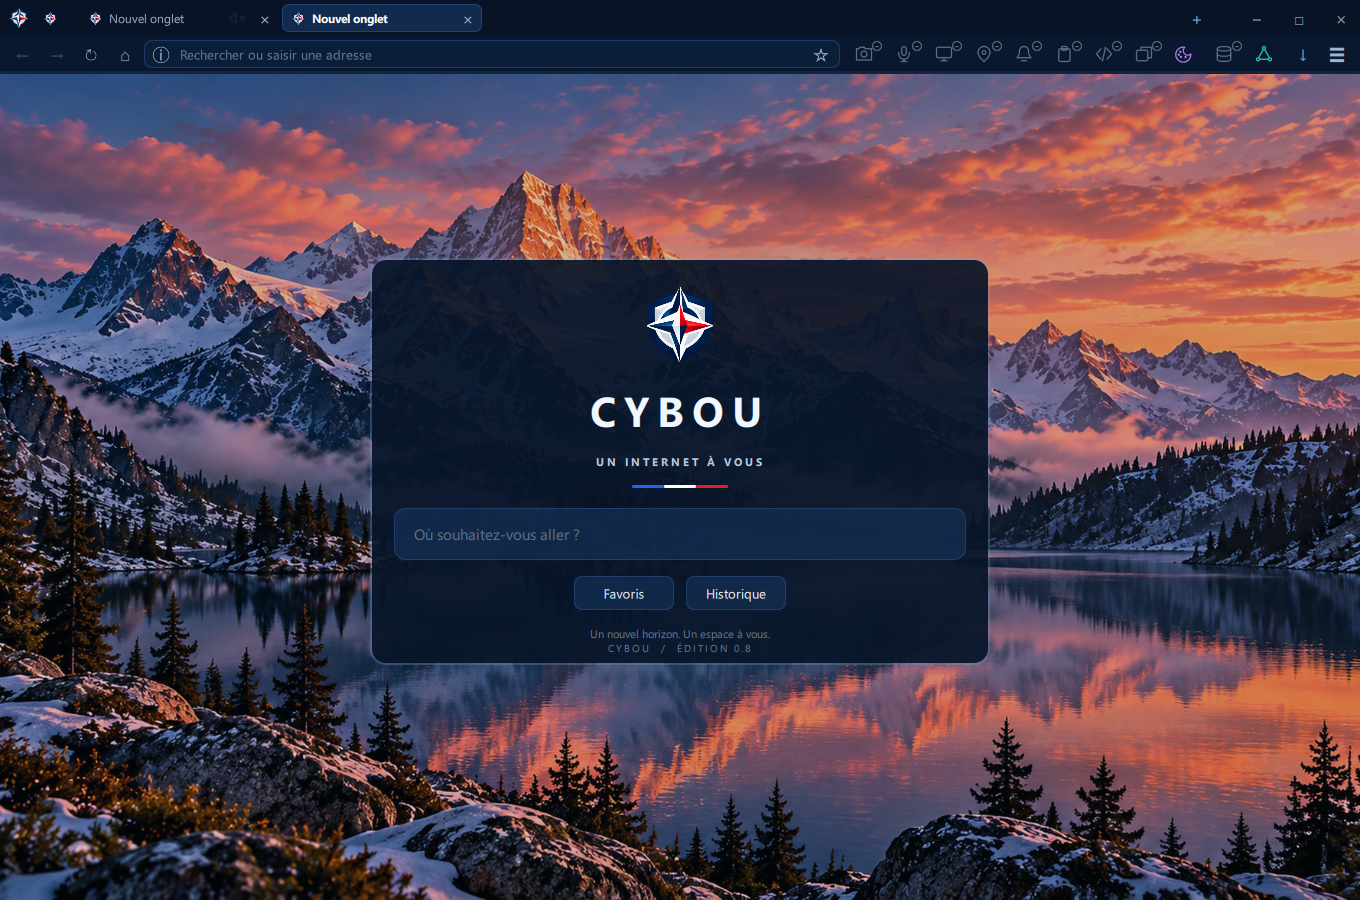
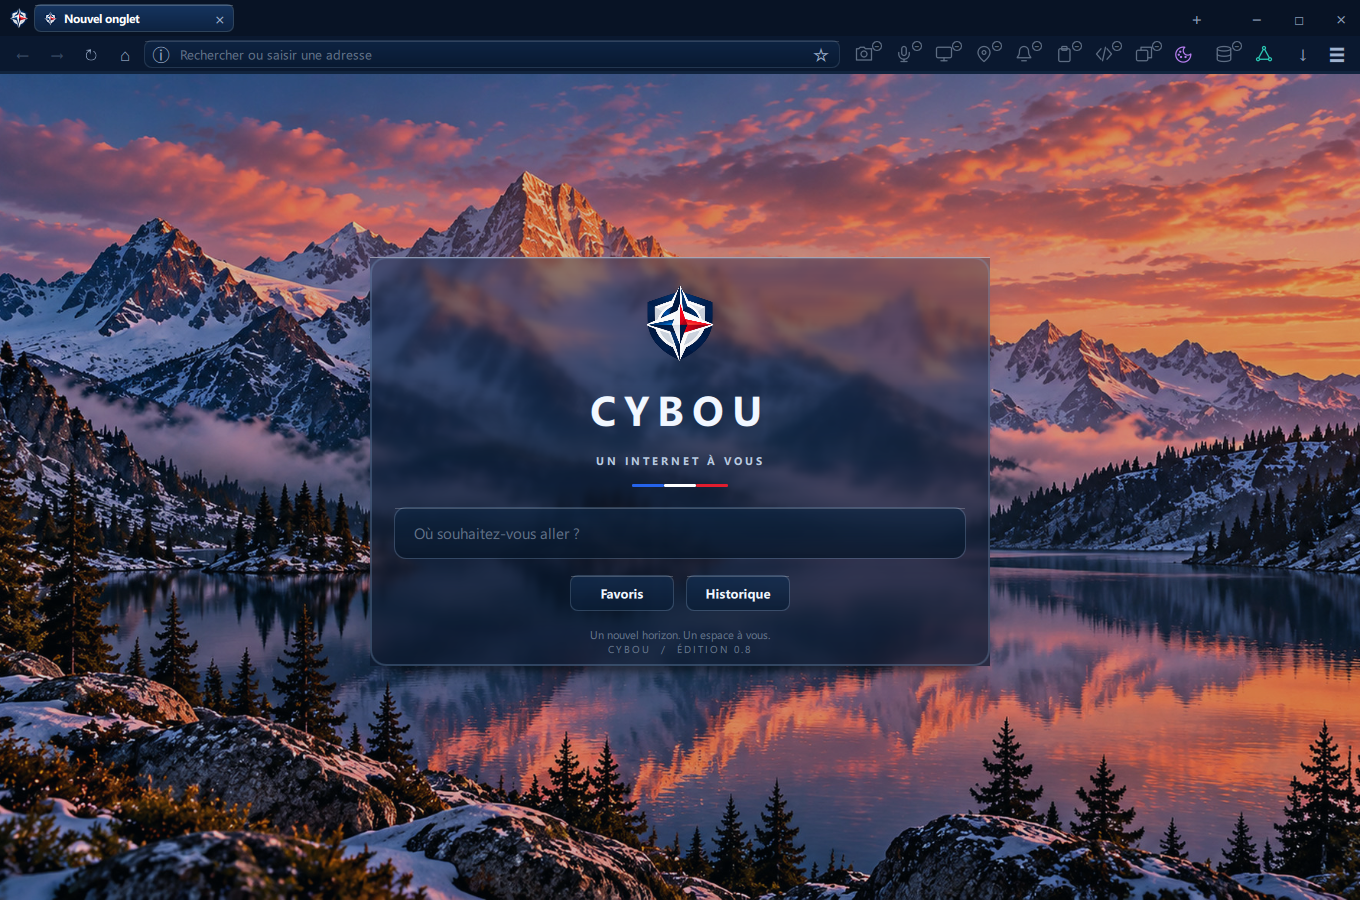
Step 1: Refine frosted glass aesthetics with backdrop blur, specular highlights, and ambient shadows

Changed region(s): [[0.2471, 0.28, 0.7412, 0.7778], [0.0, 0.0, 0.3706, 0.0622]]

diff --git a/qml/NewTabPage.qml b/qml/NewTabPage.qml
@@ -1,6 +1,7 @@
 import QtQuick
 import QtQuick.Controls
 import QtQuick.Layouts
+import QtQuick.Effects
 import Cybou
 
 Item {
@@ -21,7 +22,7 @@ Item {
         anchors.fill: parent
         source: "qrc:/assets/cybou-alpine-dawn-1920x1080.jpg"
         fillMode: Image.PreserveAspectCrop
-        asynchronous: true
+        asynchronous: false
         cache: true
         smooth: true
     }
@@ -32,17 +33,77 @@ Item {
         color: "#2806172F"
     }
 
-    // Floating glass card in center
+    // Ambient drop shadow beneath card
+    Rectangle {
+        id: cardShadow
+        anchors.centerIn: card
+        anchors.verticalCenterOffset: 14
+        width: card.width - 20
+        height: card.height - 16
+        radius: CybouTheme.cardRadius + 4
+        color: "#A0000000"
+        layer.enabled: true
+        layer.effect: MultiEffect {
+            blurEnabled: true
+            blur: 1.0
+            blurMax: 32
+        }
+    }
+
+    // Floating frosted glass card in center
     Rectangle {
         id: card
         anchors.centerIn: parent
         anchors.verticalCenterOffset: root.height < 600 ? -10 : -25
         width: Math.min(620, Math.max(300, root.width - 48))
-        implicitHeight: contentCol.implicitHeight + 48
+        implicitHeight: contentCol.implicitHeight + (root.height < 600 ? 36 : 48)
         radius: CybouTheme.cardRadius
-        color: CybouTheme.glassCard
-        border.color: CybouTheme.borderHighlight
-        border.width: 1.5
+        clip: true
+        color: "transparent"
+
+        // Frosted window: aligned portion of blurred wallpaper
+        Item {
+            anchors.fill: parent
+            layer.enabled: true
+            layer.effect: MultiEffect {
+                blurEnabled: true
+                blur: 0.85
+                blurMax: 40
+            }
+
+            ShaderEffectSource {
+                x: -card.x
+                y: -card.y
+                width: root.width
+                height: root.height
+                sourceItem: bg
+                live: true
+            }
+        }
+
+        // Tinted glass gradient wash
+        Rectangle {
+            anchors.fill: parent
+            gradient: Gradient {
+                GradientStop { position: 0.0; color: CybouTheme.glassCardTop }
+                GradientStop { position: 1.0; color: CybouTheme.glassCardBottom }
+            }
+        }
+
+        // Top specular highlight line
+        Rectangle {
+            anchors.top: parent.top; anchors.left: parent.left; anchors.right: parent.right
+            height: 1; color: CybouTheme.glassSheen
+        }
+
+        // Crisp glass border
+        Rectangle {
+            anchors.fill: parent
+            radius: parent.radius
+            color: "transparent"
+            border.color: CybouTheme.borderHighlight
+            border.width: 1.5
+        }
 
         ColumnLayout {
             id: contentCol
@@ -99,9 +160,16 @@ Item {
                 selectionColor: "#1D4ED8"; selectedTextColor: "#FFFFFF"
                 background: Rectangle {
                     radius: CybouTheme.controlRadius + 4
-                    color: CybouTheme.glassSurface
-                    border.color: searchInput.activeFocus ? CybouTheme.borderActive : CybouTheme.borderSubtle
-                    border.width: searchInput.activeFocus ? 1.5 : 1
+                    gradient: Gradient {
+                        GradientStop { position: 0.0; color: searchInput.activeFocus ? "#E0143258" : "#C0102644" }
+                        GradientStop { position: 1.0; color: searchInput.activeFocus ? "#F00A1A30" : "#D008172A" }
+                    }
+                    border.color: searchInput.activeFocus ? CybouTheme.borderActive : CybouTheme.borderHighlight
+                    border.width: searchInput.activeFocus ? 2 : 1
+                    Rectangle {
+                        anchors.top: parent.top; anchors.left: parent.left; anchors.right: parent.right; anchors.margins: 1
+                        height: 1; color: searchInput.activeFocus ? "#500088FF" : CybouTheme.glassSheenSubtle; radius: parent.radius
+                    }
                 }
                 onAccepted: {
                     if (text.trim().length > 0) {
@@ -119,13 +187,20 @@ Item {
                     onClicked: root.libraryRequested("Favoris")
                     contentItem: Text {
                         text: parent.text; color: CybouTheme.mainText
-                        font.pixelSize: 13; horizontalAlignment: Text.AlignHCenter; verticalAlignment: Text.AlignVCenter
+                        font.pixelSize: 13; font.bold: true; horizontalAlignment: Text.AlignHCenter; verticalAlignment: Text.AlignVCenter
                     }
                     background: Rectangle {
-                        implicitWidth: 100; implicitHeight: 34; radius: CybouTheme.controlRadius
-                        color: parent.hovered ? CybouTheme.glassHover : CybouTheme.glassSurface
-                        border.color: CybouTheme.borderSubtle
+                        implicitWidth: 104; implicitHeight: 36; radius: CybouTheme.controlRadius
+                        gradient: Gradient {
+                            GradientStop { position: 0.0; color: parent.down ? "#DD0D2038" : parent.hovered ? "#DD224572" : "#C0142F52" }
+                            GradientStop { position: 1.0; color: parent.down ? "#EE071222" : parent.hovered ? "#EE163052" : "#D00B1D35" }
+                        }
+                        border.color: parent.hovered ? "#608BB8" : CybouTheme.borderHighlight
                         border.width: 1
+                        Rectangle {
+                            anchors.top: parent.top; anchors.left: parent.left; anchors.right: parent.right; anchors.margins: 1
+                            height: 1; color: CybouTheme.glassSheenSubtle; radius: parent.radius
+                        }
                     }
                 }
                 Button {
@@ -134,13 +209,20 @@ Item {
                     onClicked: root.libraryRequested("Historique")
                     contentItem: Text {
                         text: parent.text; color: CybouTheme.mainText
-                        font.pixelSize: 13; horizontalAlignment: Text.AlignHCenter; verticalAlignment: Text.AlignVCenter
+                        font.pixelSize: 13; font.bold: true; horizontalAlignment: Text.AlignHCenter; verticalAlignment: Text.AlignVCenter
                     }
                     background: Rectangle {
-                        implicitWidth: 100; implicitHeight: 34; radius: CybouTheme.controlRadius
-                        color: parent.hovered ? CybouTheme.glassHover : CybouTheme.glassSurface
-                        border.color: CybouTheme.borderSubtle
+                        implicitWidth: 104; implicitHeight: 36; radius: CybouTheme.controlRadius
+                        gradient: Gradient {
+                            GradientStop { position: 0.0; color: parent.down ? "#DD0D2038" : parent.hovered ? "#DD224572" : "#C0142F52" }
+                            GradientStop { position: 1.0; color: parent.down ? "#EE071222" : parent.hovered ? "#EE163052" : "#D00B1D35" }
+                        }
+                        border.color: parent.hovered ? "#608BB8" : CybouTheme.borderHighlight
                         border.width: 1
+                        Rectangle {
+                            anchors.top: parent.top; anchors.left: parent.left; anchors.right: parent.right; anchors.margins: 1
+                            height: 1; color: CybouTheme.glassSheenSubtle; radius: parent.radius
+                        }
                     }
                 }
             }

diff --git a/qml/Main.qml b/qml/Main.qml
@@ -4,6 +4,7 @@ import QtQuick.Layouts
 import QtQuick.Window
 import QtQuick.Dialogs as NativeDialogs
 import QtWebEngine
+import QtQuick.Effects
 import Cybou
 
 ApplicationWindow {
@@ -640,9 +641,18 @@ ApplicationWindow {
                         required property bool audible
                         width: isPinned ? (isMuted || audible ? 66 : 42) : Math.max(112, Math.min(200, tabStrip.width / Math.min(tabs.count, 5)))
                         height: chromeControlHeight; radius: 7
-                        color: activeTab === index ? "#122A4E" : tabMouse.containsMouse ? "#0E213B" : "transparent"
-                        border.width: activeTab === index ? 1 : 0
-                        border.color: "#1E4273"
+                        gradient: Gradient {
+                            GradientStop { position: 0.0; color: activeTab === index ? "#E0183A68" : tabMouse.containsMouse ? "#701D3D6A" : "#200E223D" }
+                            GradientStop { position: 1.0; color: activeTab === index ? "#E80E2444" : tabMouse.containsMouse ? "#50122846" : "#200E223D" }
+                        }
+                        color: "transparent"
+                        border.width: 1
+                        border.color: activeTab === index ? "#498BB8E0" : tabMouse.containsMouse ? "#30608BB8" : "transparent"
+                        Rectangle {
+                            visible: activeTab === index
+                            anchors.top: parent.top; anchors.left: parent.left; anchors.right: parent.right; anchors.margins: 1
+                            height: 1; color: "#35FFFFFF"; radius: parent.radius
+                        }
                         MouseArea {
                             id: tabMouse
                             anchors.fill: parent; hoverEnabled: true
@@ -726,9 +736,16 @@ ApplicationWindow {
                     id: addressContainer
                     Layout.fillWidth: true; Layout.minimumWidth: 160; implicitHeight: chromeControlHeight
                     radius: 8
-                    color: address.activeFocus ? "#08162B" : "#0B1E38"
+                    gradient: Gradient {
+                        GradientStop { position: 0.0; color: address.activeFocus ? "#E80B1E38" : "#CC0F2748" }
+                        GradientStop { position: 1.0; color: address.activeFocus ? "#F4061324" : "#DD091B32" }
+                    }
                     border.width: address.activeFocus ? 1.5 : 1
-                    border.color: address.activeFocus ? "#0088FF" : "#1B3B66"
+                    border.color: address.activeFocus ? "#0088FF" : "#357DA5CC"
+                    Rectangle {
+                        anchors.top: parent.top; anchors.left: parent.left; anchors.right: parent.right; anchors.margins: 1
+                        height: 1; color: address.activeFocus ? "#4038BDF8" : "#25FFFFFF"; radius: parent.radius
+                    }
                     RowLayout {
                         anchors.fill: parent; anchors.leftMargin: 5; anchors.rightMargin: 4; spacing: 3
                         NavButton {
@@ -961,8 +978,25 @@ ApplicationWindow {
         x: 0; y: addressContainer.height + 6
         width: addressContainer.width
         padding: 6; focus: false; modal: false
-        closePolicy: Popup.CloseOnEscape | Popup.CloseOnPressOutside
-        background: Rectangle { color: CybouTheme.glassCard; radius: CybouTheme.controlRadius; border.color: CybouTheme.borderHighlight; border.width: 1 }
+        background: Rectangle {
+            radius: CybouTheme.controlRadius
+            gradient: Gradient {
+                GradientStop { position: 0.0; color: "#F00E223D" }
+                GradientStop { position: 1.0; color: "#F8061120" }
+            }
+            border.color: CybouTheme.borderHighlight; border.width: 1
+            layer.enabled: true
+            layer.effect: MultiEffect {
+                shadowEnabled: true
+                shadowColor: "#80000000"
+                shadowBlur: 1.0
+                shadowVerticalOffset: 12
+            }
+            Rectangle {
+                anchors.top: parent.top; anchors.left: parent.left; anchors.right: parent.right; anchors.margins: 1
+                height: 1; color: "#40FFFFFF"; radius: parent.radius
+            }
+        }
         onClosed: suggestionIndex = -1
         contentItem: Column {
             spacing: 2

diff --git a/qml/ControlBarOverflow.qml b/qml/ControlBarOverflow.qml
@@ -1,5 +1,6 @@
 import QtQuick
 import QtQuick.Controls
+import QtQuick.Effects
 
 Menu {
     id: overflow
@@ -8,7 +9,26 @@ Menu {
     signal chosen(string key)
     width: 300
     padding: 8
-    background: Rectangle { color: "#F2081528"; radius: 14; border.color: "#204675"; border.width: 1.5 }
+    background: Rectangle {
+        radius: 14
+        gradient: Gradient {
+            GradientStop { position: 0.0; color: "#F00E223D" }
+            GradientStop { position: 1.0; color: "#F8061120" }
+        }
+        border.color: "#497DA5CC"
+        border.width: 1.5
+        layer.enabled: true
+        layer.effect: MultiEffect {
+            shadowEnabled: true
+            shadowColor: "#80000000"
+            shadowBlur: 1.0
+            shadowVerticalOffset: 12
+        }
+        Rectangle {
+            anchors.top: parent.top; anchors.left: parent.left; anchors.right: parent.right; anchors.margins: 1
+            height: 1; color: "#50FFFFFF"; radius: parent.radius
+        }
+    }
     function present(keys) { frozenKeys = keys.slice(); open() }
     Repeater {
         model: overflow.frozenKeys

diff --git a/qml/CapabilityPopover.qml b/qml/CapabilityPopover.qml
@@ -18,7 +18,26 @@ Popup {
     height: Math.min(implicitHeight, parent.height - minimumY - 8)
     focus: pinned; modal: false
     closePolicy: Popup.CloseOnEscape | Popup.CloseOnPressOutside
-    background: Rectangle { color: "#F2081528"; radius: 16; border.color: "#224775"; border.width: 1.5 }
+    background: Rectangle {
+        radius: 16
+        gradient: Gradient {
+            GradientStop { position: 0.0; color: "#F00E223D" }
+            GradientStop { position: 1.0; color: "#F8061120" }
+        }
+        border.color: "#497DA5CC"
+        border.width: 1.5
+        layer.enabled: true
+        layer.effect: MultiEffect {
+            shadowEnabled: true
+            shadowColor: "#80000000"
+            shadowBlur: 1.0
+            shadowVerticalOffset: 12
+        }
+        Rectangle {
+            anchors.top: parent.top; anchors.left: parent.left; anchors.right: parent.right; anchors.margins: 1
+            height: 1; color: "#50FFFFFF"; radius: parent.radius
+        }
+    }
     contentItem: ScrollView {
         implicitHeight: content.implicitHeight
         contentWidth: availableWidth

diff --git a/qml/NavButton.qml b/qml/NavButton.qml
@@ -20,8 +20,17 @@ Button {
     }
     background: Rectangle {
         radius: 7
-        color: control.down ? "#1D3B66" : control.hovered ? "#142948" : "transparent"
+        gradient: Gradient {
+            GradientStop { position: 0.0; color: control.down ? "#CC18355B" : control.hovered ? "#90244673" : "transparent" }
+            GradientStop { position: 1.0; color: control.down ? "#DD0E223D" : control.hovered ? "#60142C4E" : "transparent" }
+        }
+        color: "transparent"
         border.width: control.hovered ? 1 : 0
-        border.color: "#1E4273"
+        border.color: "#407DA5CC"
+        Rectangle {
+            visible: control.hovered
+            anchors.top: parent.top; anchors.left: parent.left; anchors.right: parent.right; anchors.margins: 1
+            height: 1; color: "#35FFFFFF"; radius: parent.radius
+        }
     }
 }

diff --git a/qml/CybouTheme.qml b/qml/CybouTheme.qml
@@ -23,6 +23,12 @@ QtObject {
     readonly property color neutral: "#9CB2CE"
     readonly property color unavailable: "#687C99"
 
+    // Glass specular highlights and reflections
+    readonly property color glassSheen: "#70FFFFFF"
+    readonly property color glassSheenSubtle: "#35FFFFFF"
+    readonly property color glassCardTop: "#750E2648"
+    readonly property color glassCardBottom: "#B0061224"
+
     // Geometry constants
     readonly property int chromeRowHeight: 36
     readonly property int chromeControlHeight: 28
